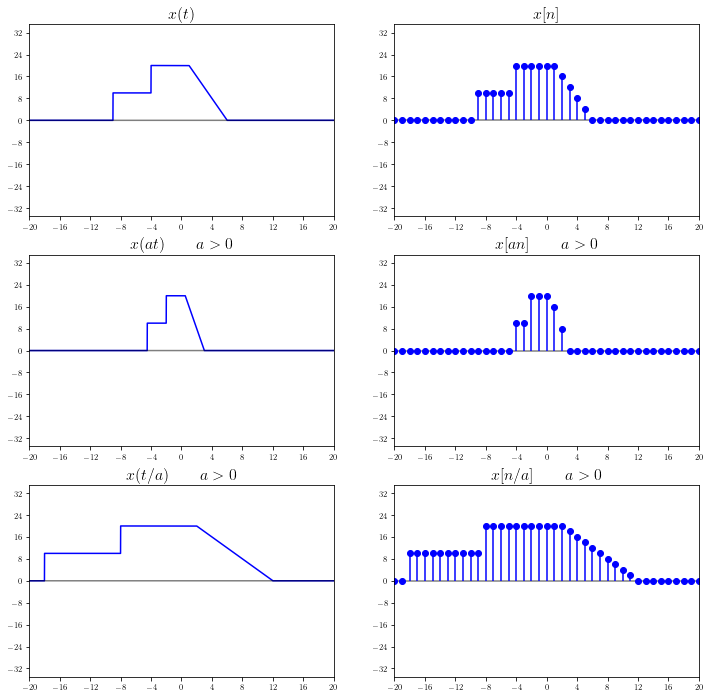
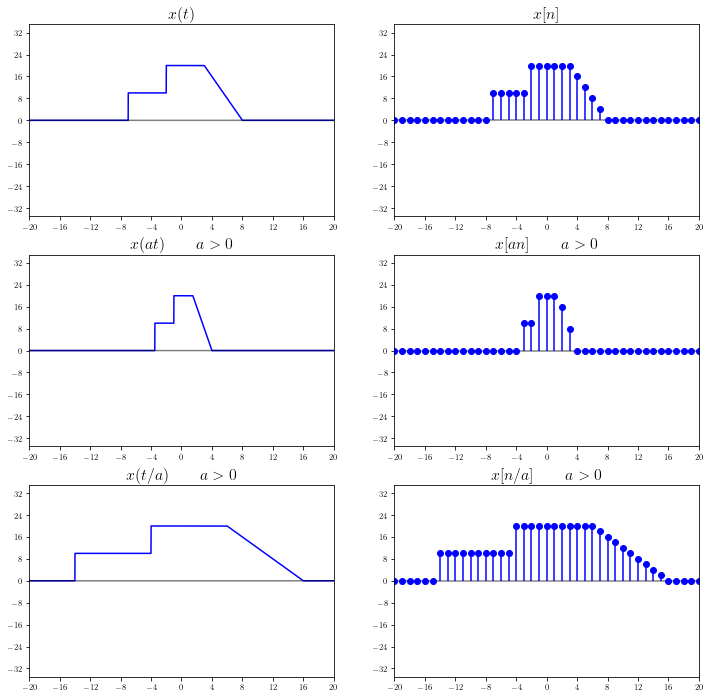
Update documentation

diff --git a/courses/dsp/systems.html b/courses/dsp/systems.html
@@ -449,7 +449,7 @@ title="Print to PDF"
     <span class="p">(</span><span class="mi">20</span><span class="p">,</span> <span class="p">(</span><span class="n">t</span><span class="o">&gt;=</span><span class="mi">0</span><span class="p">)</span><span class="o">&amp;</span><span class="p">(</span><span class="n">t</span><span class="o">&lt;</span><span class="mi">5</span><span class="p">)),</span> 
     <span class="p">(</span><span class="mi">40</span><span class="o">-</span><span class="mi">4</span><span class="o">*</span><span class="n">t</span><span class="p">,</span> <span class="p">(</span><span class="n">t</span><span class="o">&gt;=</span><span class="mi">5</span><span class="p">)</span><span class="o">&amp;</span><span class="p">(</span><span class="n">t</span><span class="o">&lt;</span><span class="mi">10</span><span class="p">)),</span> 
     <span class="p">(</span><span class="mi">0</span><span class="p">,</span> <span class="n">t</span><span class="o">&gt;=</span><span class="mi">10</span><span class="p">)</span>
-<span class="p">)</span><span class="o">.</span><span class="n">subs</span><span class="p">(</span><span class="n">t</span><span class="p">,</span> <span class="n">t</span><span class="o">+</span><span class="mi">4</span><span class="p">)</span>
+<span class="p">)</span><span class="o">.</span><span class="n">subs</span><span class="p">(</span><span class="n">t</span><span class="p">,</span> <span class="n">t</span><span class="o">+</span><span class="mi">2</span><span class="p">)</span>
 </pre></div>
 </div>
 </div>
